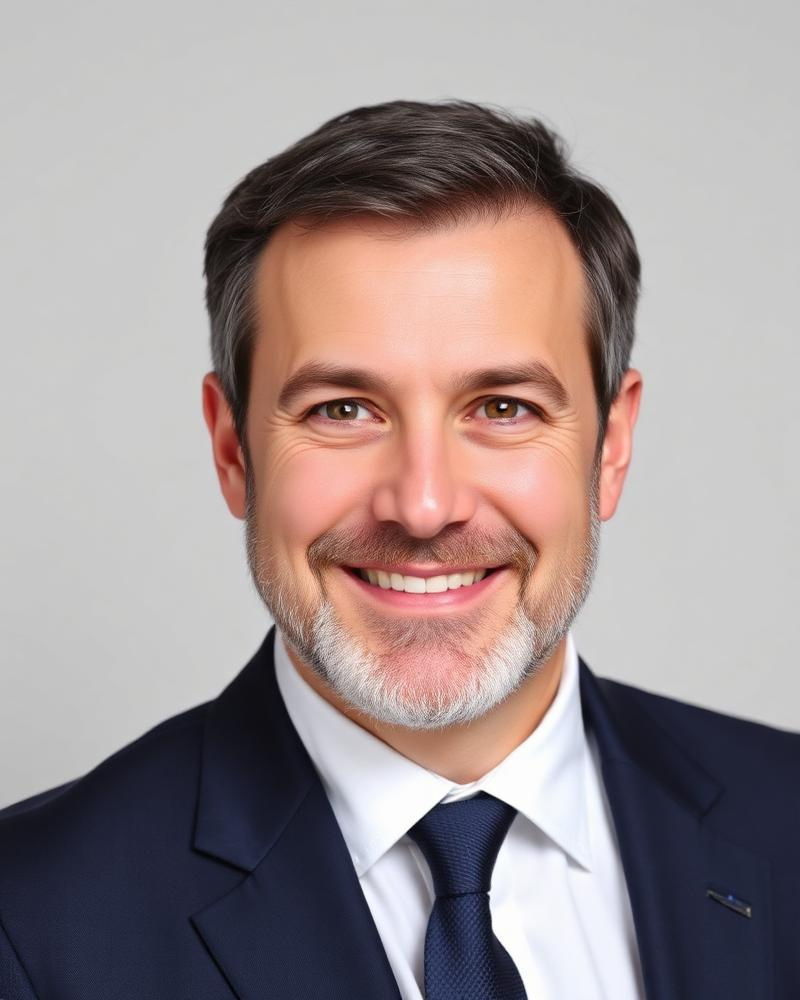
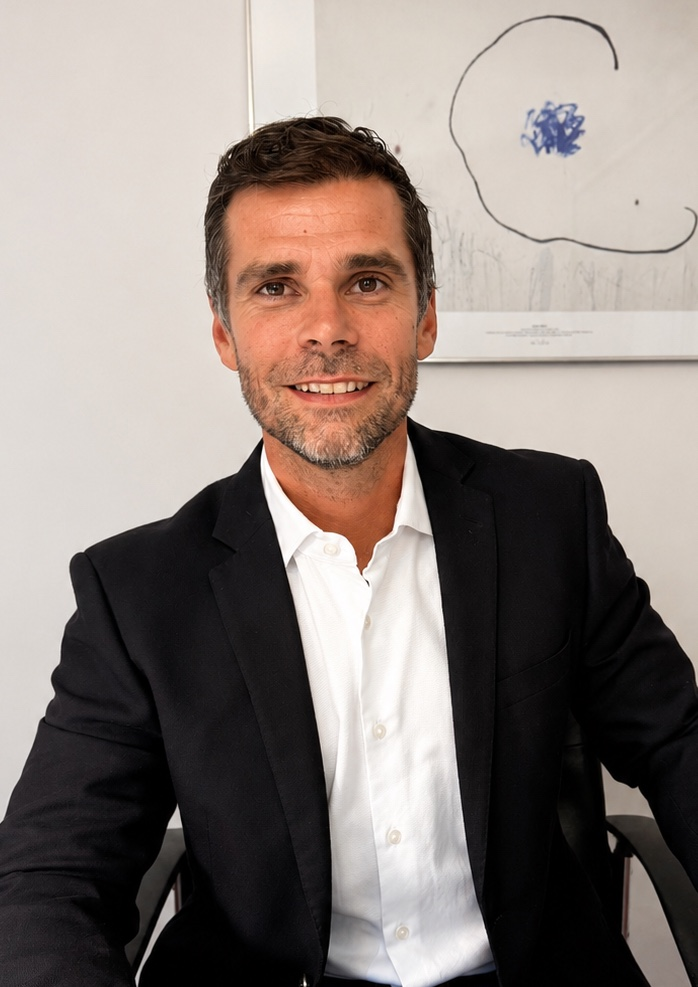
Applique les modifications demandées par le client
Accueil : sous-titre de l'en-tête « Évaluation et estimation », cartes 1 et 2
renommées en « Évaluation… », étape 2 de la démarche « Étude du dossier »,
Hérault ajouté aux départements limitrophes et ordre revu.

Spécialité : le titre devient « Spécialité ».
Domaine : « Valeur locative commerciale » passe avant « Assurance préalable
et après sinistre ».
Intervenants : photos d'origine avec leur fond d'origine, citations agrandies.

Diaporama : les 4 visuels d'architecture laissent place aux 14 photos du
territoire d'intervention fournies par le client (réduites à 1400 px / q68).
Le carrousel ne charge plus que l'image courante et la suivante, sans quoi
14 slides pèseraient 5 Mo au chargement de l'accueil. L'image de partage
réseaux sociaux pointe désormais sur les Arènes de Nîmes.

diff --git a/keystatic.config.ts b/keystatic.config.ts
@@ -134,7 +134,7 @@ export default config({
         seoTitle: fields.text({ label: 'Titre SEO' }),
         seoDescription: fields.text({ label: 'Description SEO', multiline: true }),
         eyebrow: fields.text({ label: 'Surtitre', defaultValue: 'Spécialité' }),
-        titre: fields.text({ label: 'Titre de la page', defaultValue: 'Évaluation et Estimation' }),
+        titre: fields.text({ label: 'Titre de la page', defaultValue: 'Spécialité' }),
         image: imageField('Photo de la page (optionnelle)', 'Affichée en bandeau sous le titre. Laisser vide pour aucune photo.'),
         items: fields.array(
           fields.object({
